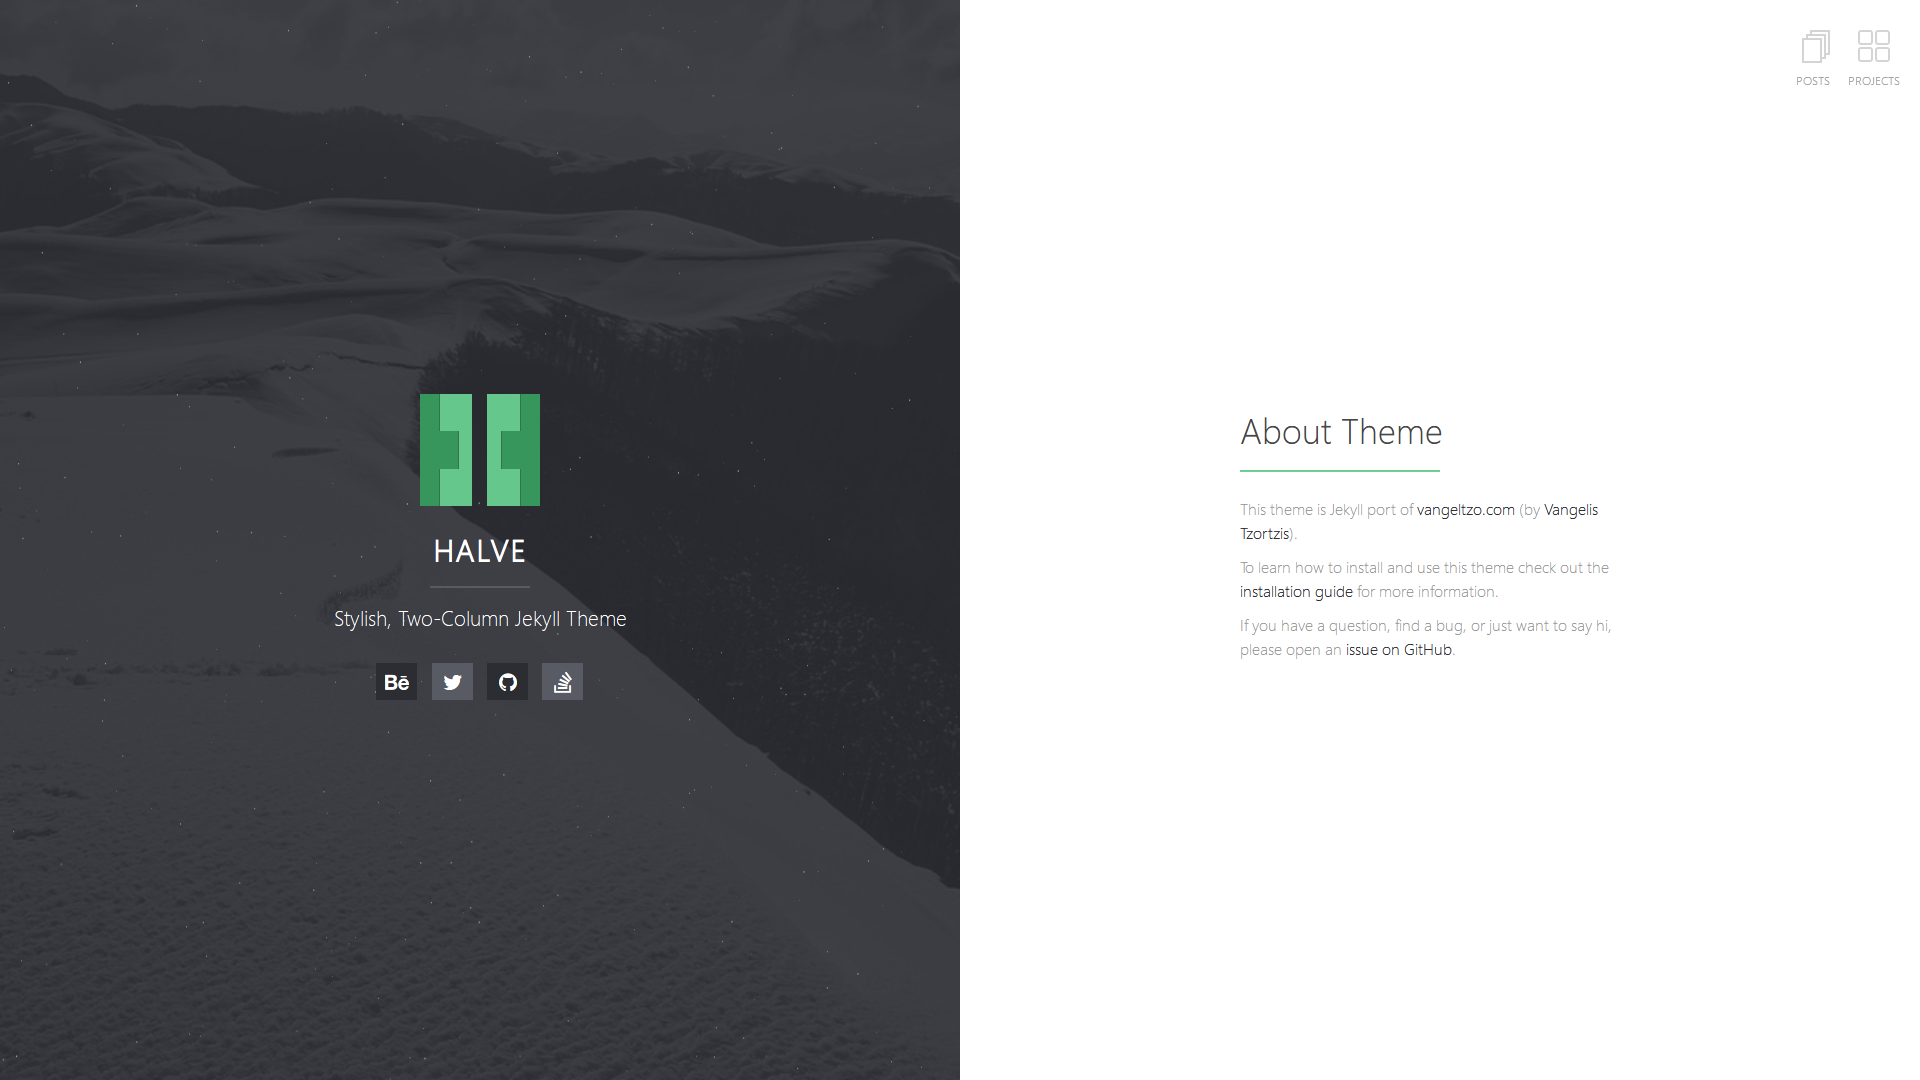
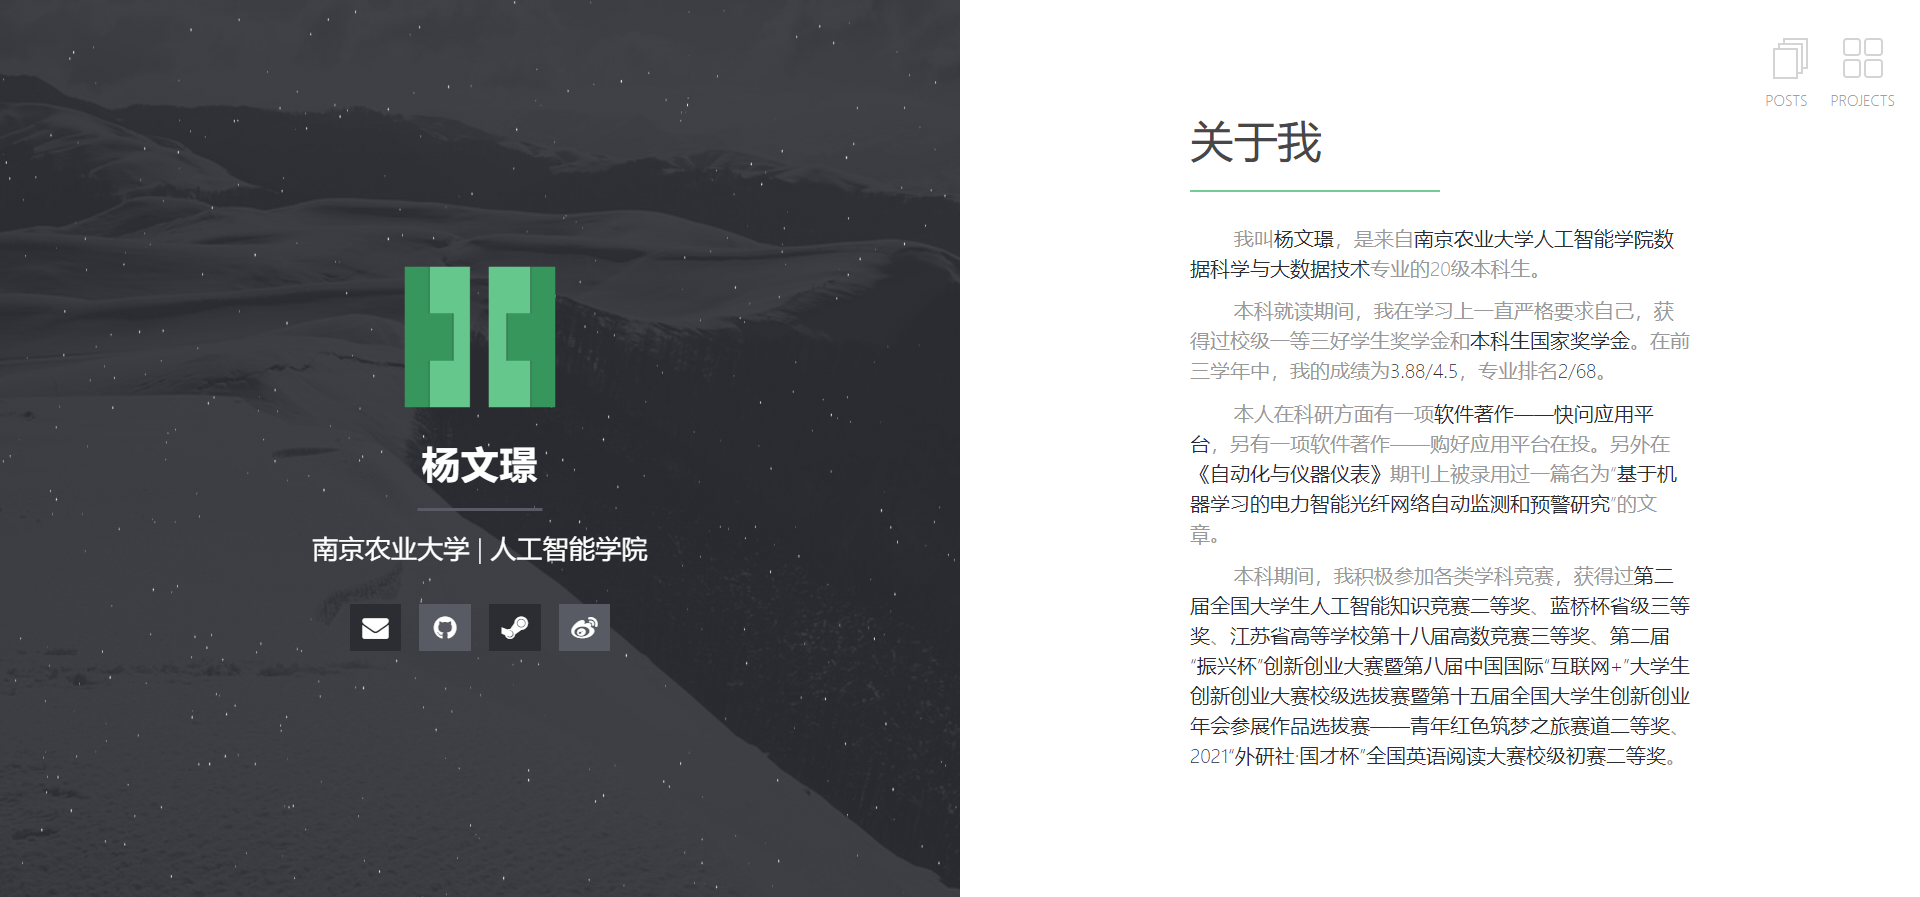
init2

diff --git a/README.md b/README.md
@@ -1,25 +1,6 @@
-# Halve  [![Donate](https://img.shields.io/badge/paypal-donate-blue.svg)](https://www.paypal.me/taylantatli/0usd)  
-  
-## `Sorry guys but there will be no update until I buy a new laptop.`
+# 杨文璟博客
 
-This theme is Jekyll port of [vangeltzo.com](http://vangeltzo.com/) (by [Vangelis Tzortzis](https://github.com/srekoble)).
+使用jekyll模板：[Halve](http://jekyllthemes.org/themes/halve-theme/)
 
-To learn how to install and use this theme check out the [installation guide](https://taylantatli.github.io/Halve/halve-theme/) for more information.
-
-If you have a question, find a bug, or just want to say hi, please open an [issue on GitHub](https://github.com/TaylanTatli/Halve/issues/new).
-
-## Preview   
+## 预览   
 ![screenshot of Halve](/images/halve-home-image.png)
-
-See a [live version of Halve](http://taylantatli.github.io/Halve) hosted on GitHub.
-
-# Credits
-- Original Work: [Vangelis Tzortzis](https://github.com/srekoble)  
-- Sample Posts and some code examples: [Michael Rose](https://github.com/mmistakes/)
-- Images: [Unsplash](https://unsplash.com/) and [Lorem Pixel](http://lorempixel.com)
-
-### Others
-- [Jekyll](http://jekyllrb.com/)
-- [jQuery](http://jquery.com/)
-- [Magnific Popup](http://dimsemenov.com/plugins/magnific-popup/)
-- [FitVids.JS](http://fitvidsjs.com/)
